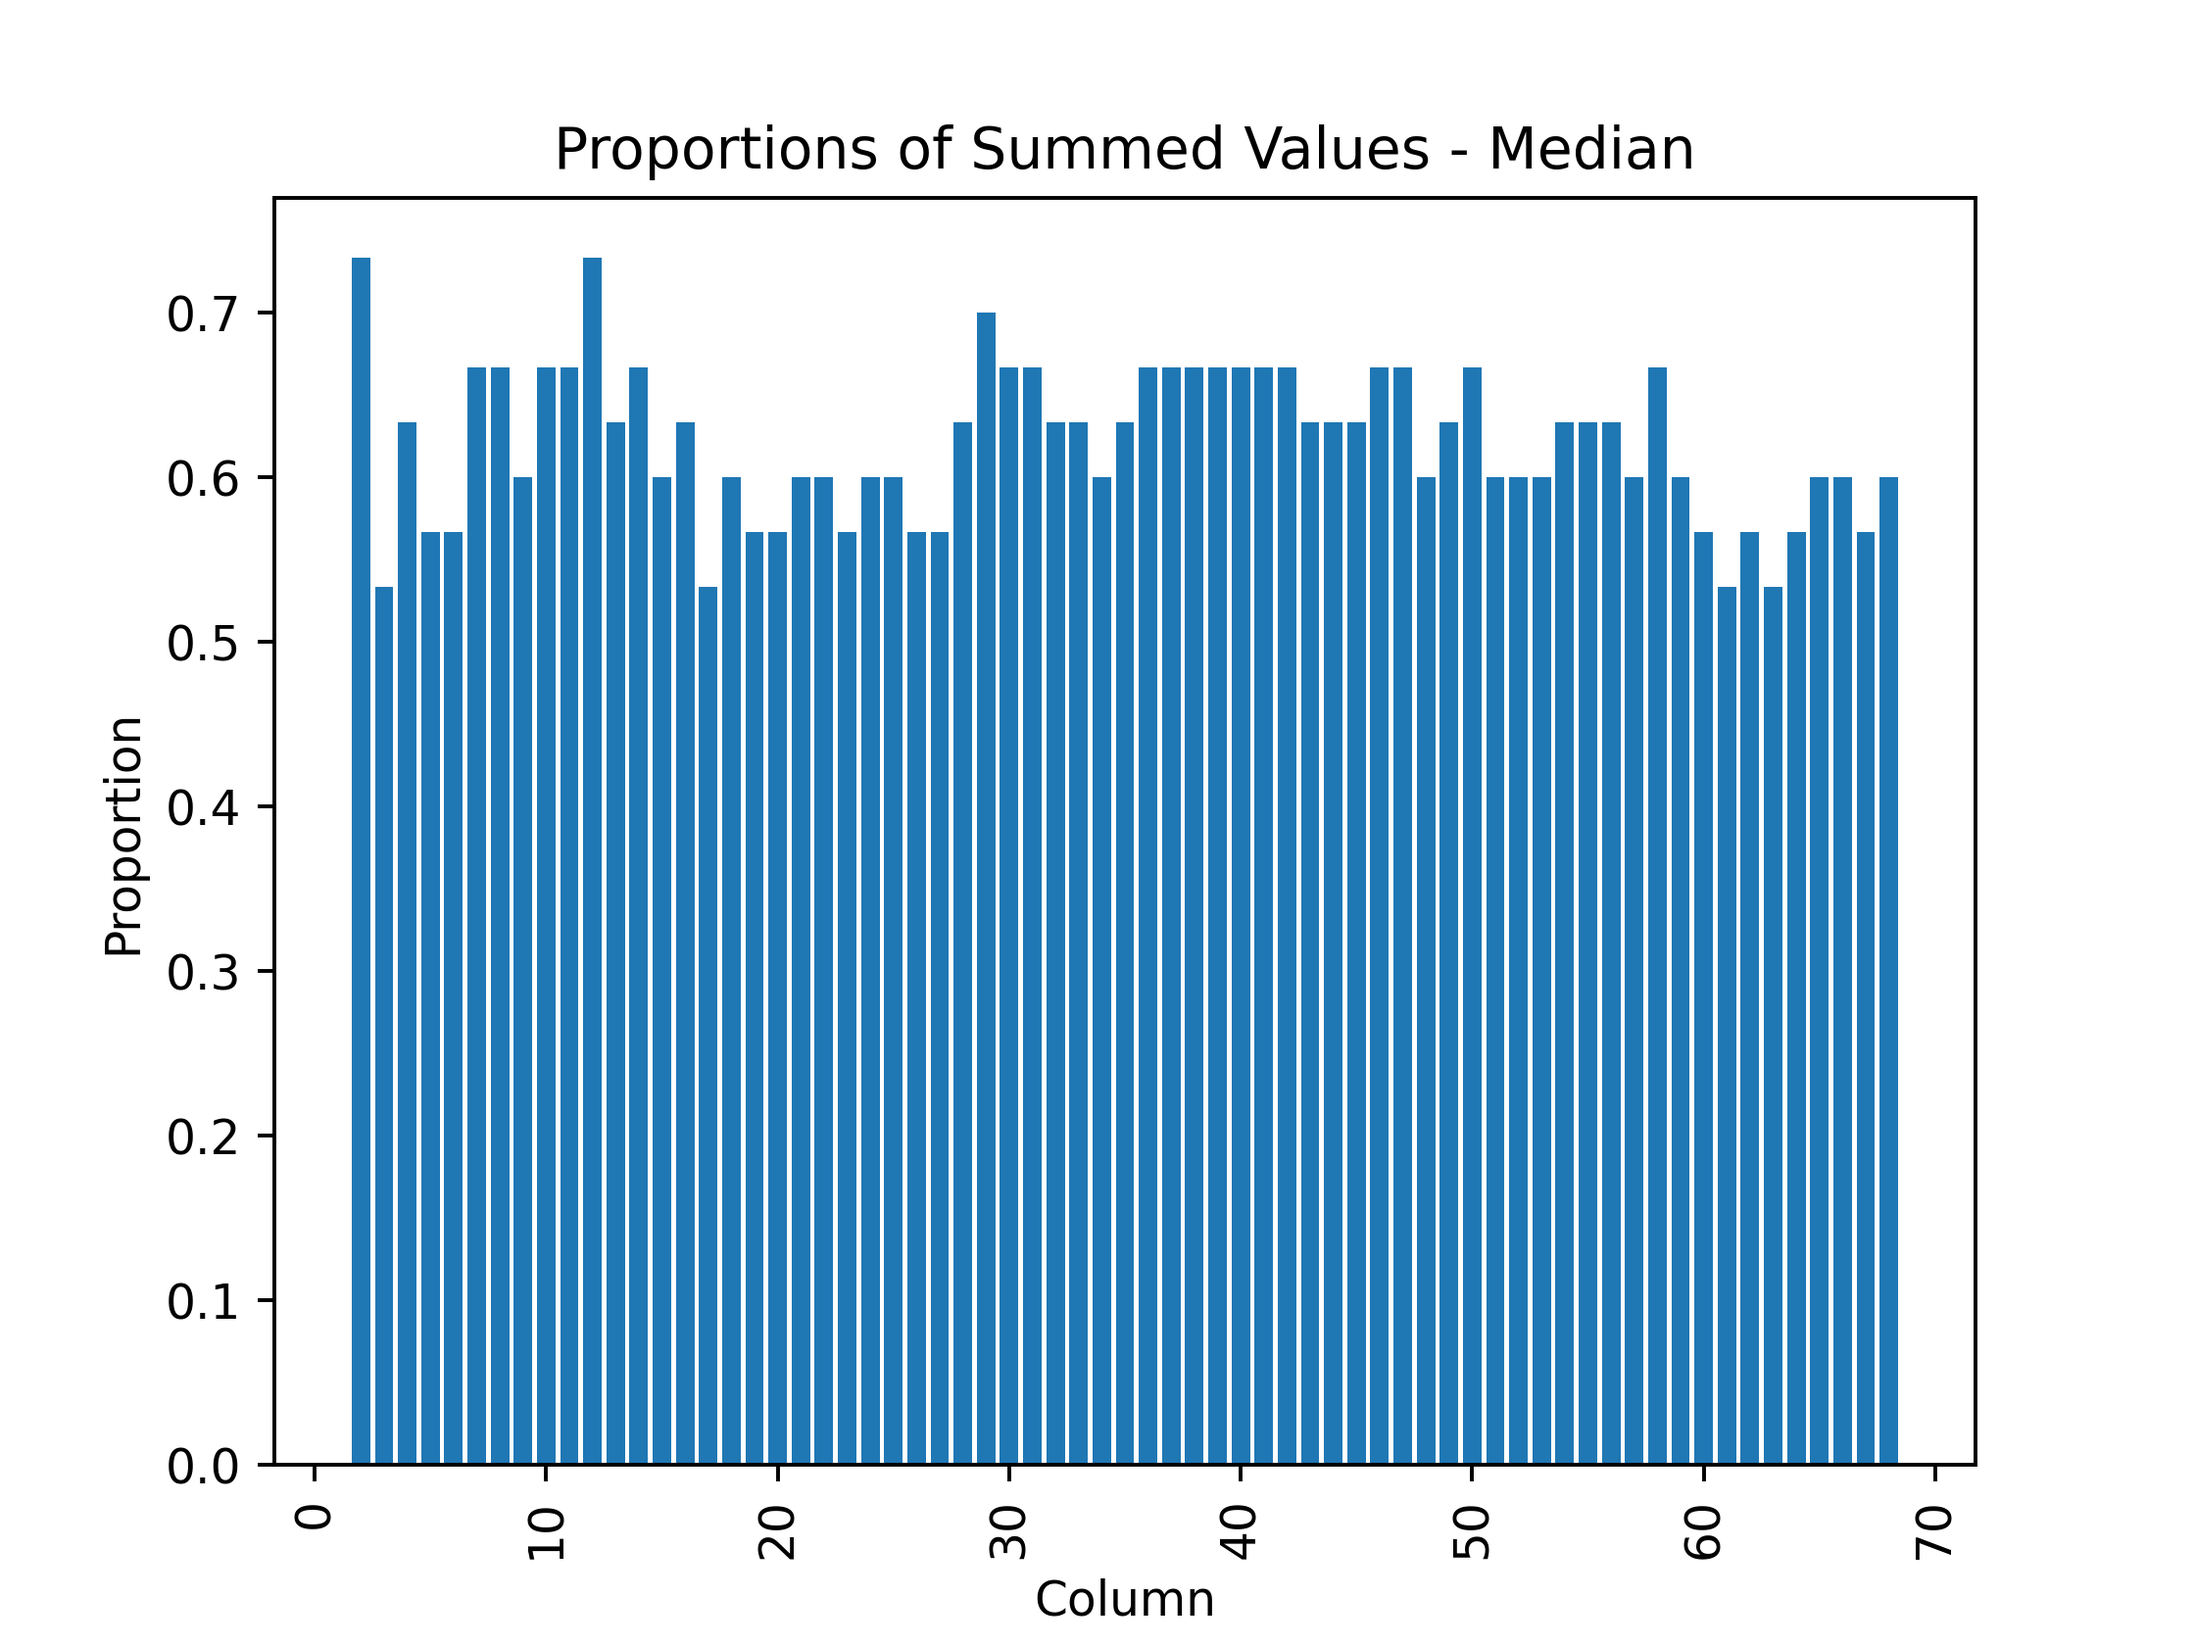
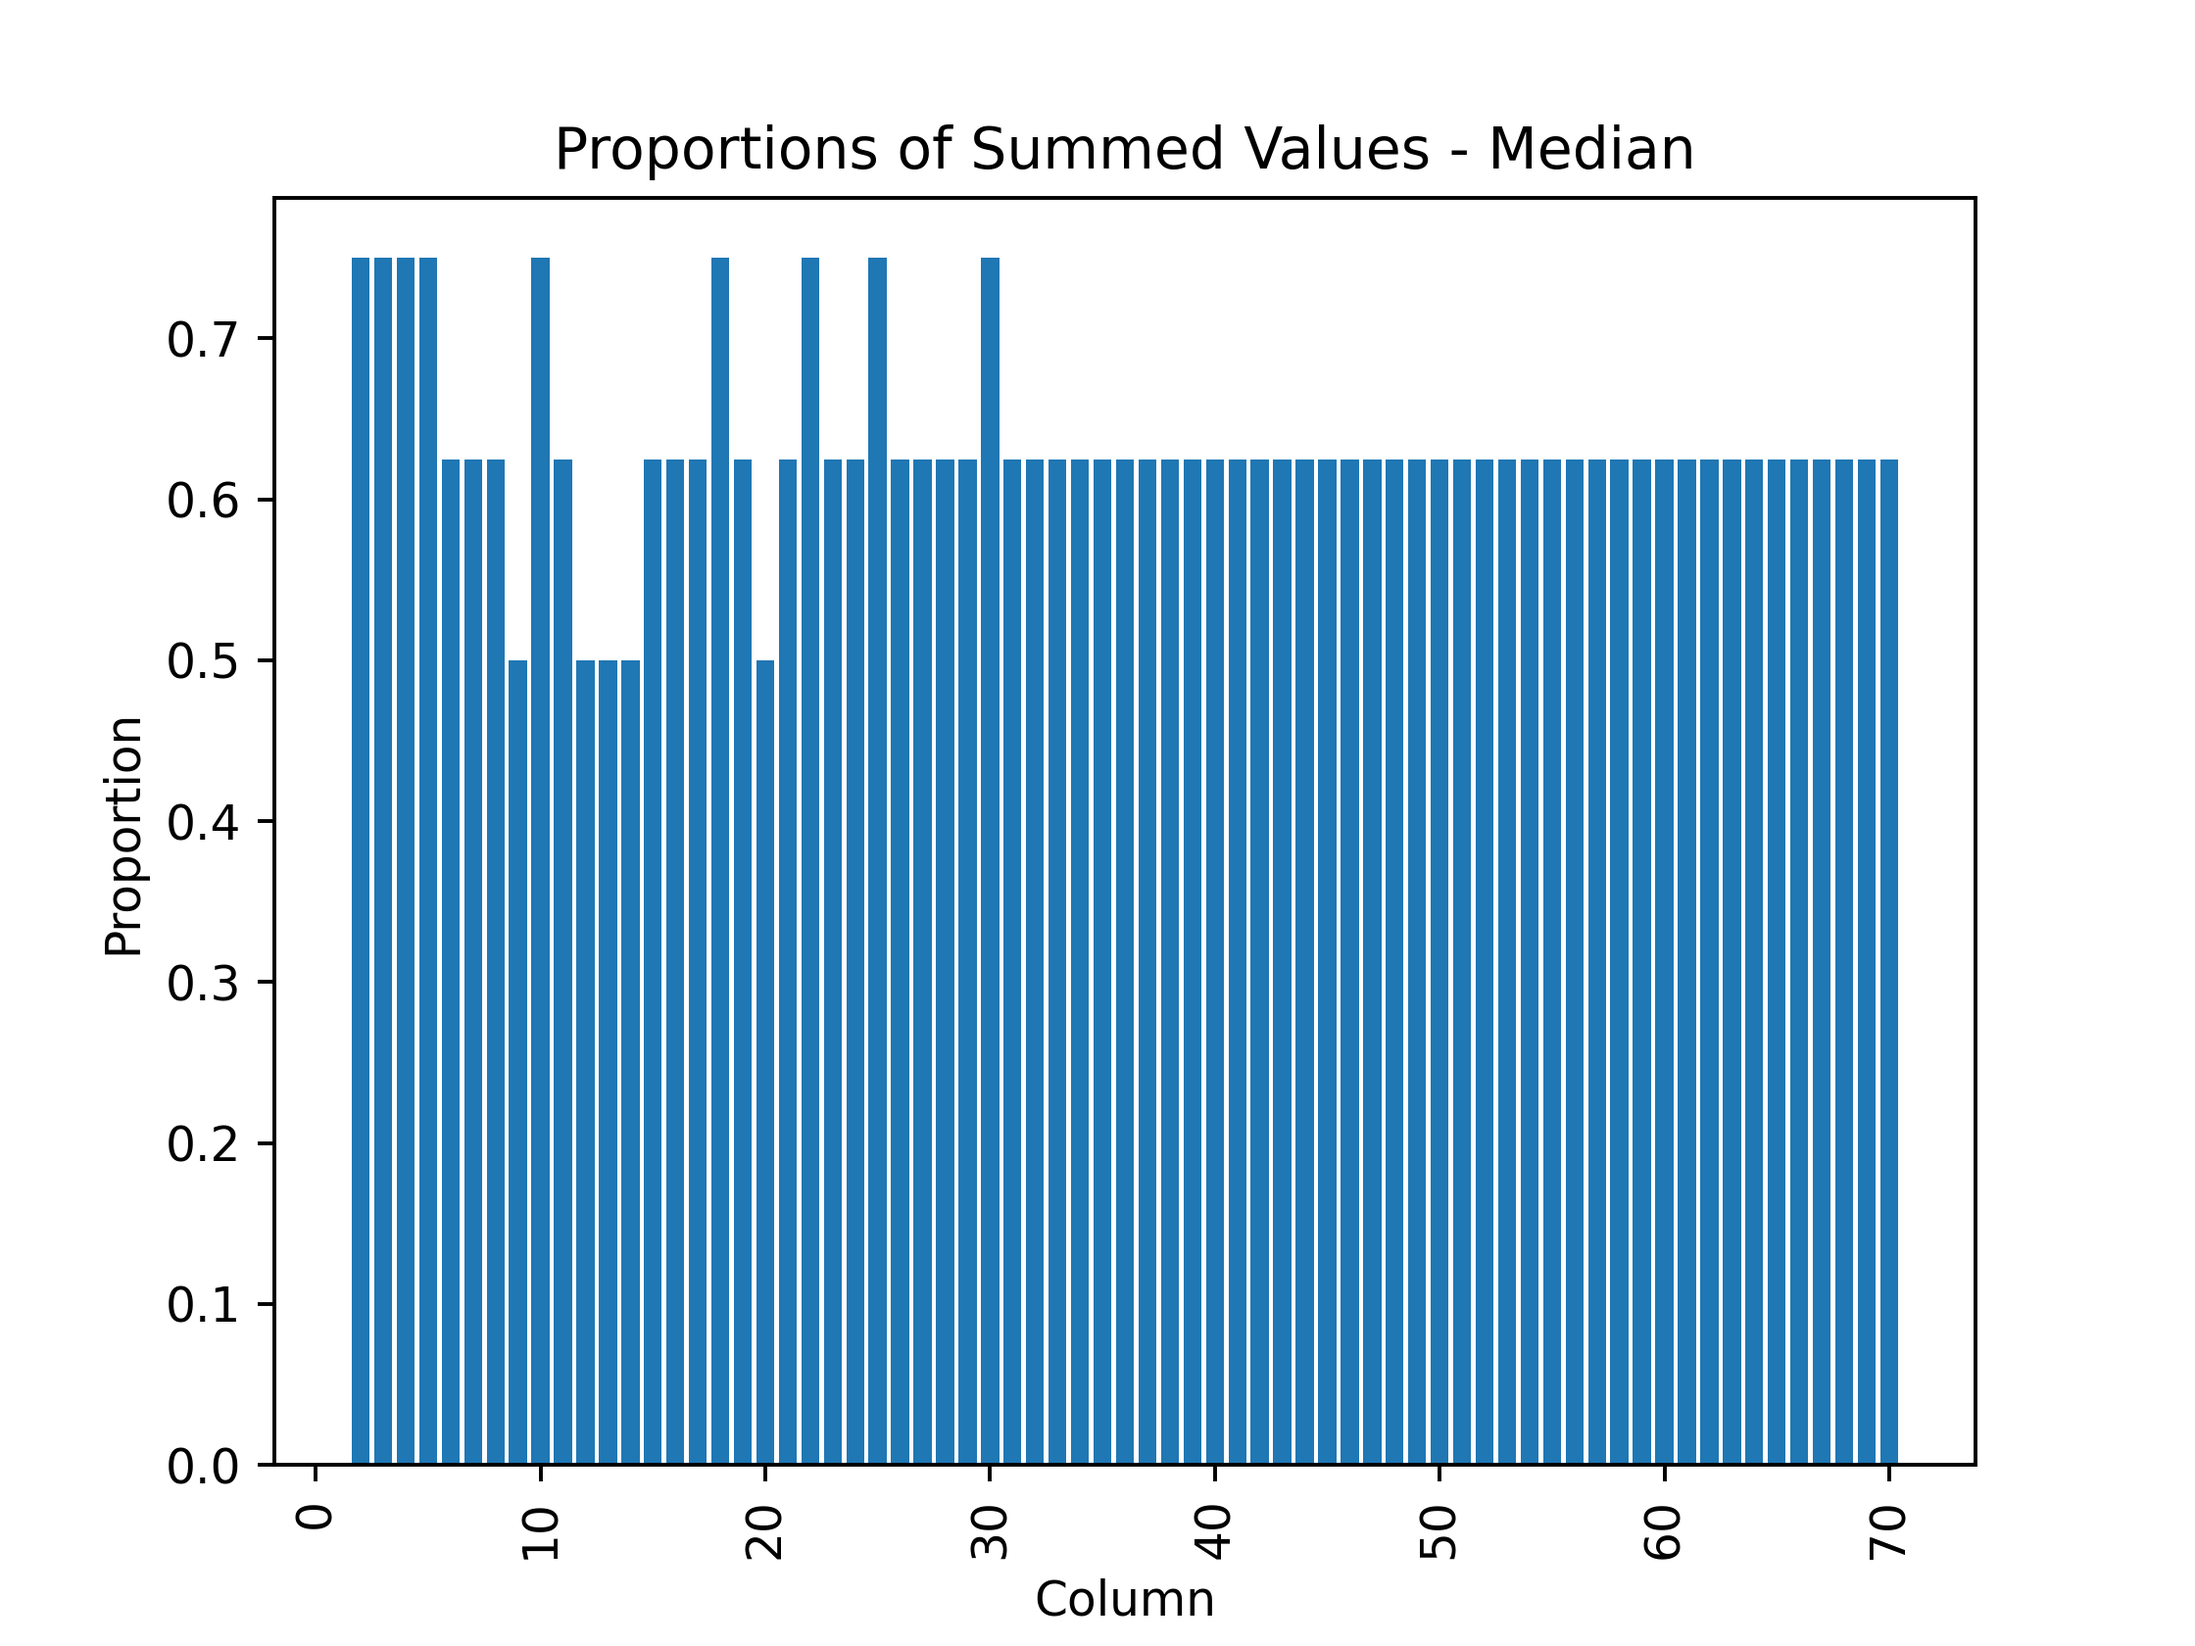
FIX: test function to only include todays current games

diff --git a/mlb_ml_classify_deep_learn_test.py b/mlb_ml_classify_deep_learn_test.py
@@ -248,16 +248,22 @@ class mlbDeep():
             X_pca_2 = self.pca.transform(X_std_2)
             team_1_df2023 = DataFrame(X_pca_1, columns=[f'PC{i}' for i in range(1, self.pca.n_components_+1)])
             team_2_df2023 = DataFrame(X_pca_2, columns=[f'PC{i}' for i in range(1, self.pca.n_components_+1)])
-            ma_range = [54,67]
+            ma_range = [18,53]
             # print(team_1_df2023)
             #avoid dropping column issue
             data1_mean = DataFrame()
             data2_mean = DataFrame()
             team_1_pred = []
             team_2_pred = []
+            median_bool = True
             for ma in tqdm(ma_range):
-                data1_mean = team_1_df2023.ewm(span=ma,min_periods=ma-1).mean()
-                data2_mean = team_2_df2023.ewm(span=ma,min_periods=ma-1).mean()
+                if median_bool == True:
+                    data1_mean = team_1_df2023.rolling(ma).median()
+                    data2_mean = team_2_df2023.rolling(ma).median()
+                else:
+                    data1_mean = team_1_df2023.ewm(span=ma,min_periods=ma-1).mean()
+                    data2_mean = team_2_df2023.ewm(span=ma,min_periods=ma-1).mean()
+
                 # for cols in team_1_df2023.columns:
                     # # ['cli', 'inherited_runners', 'inherited_score']
                     # if "cli" not in cols or "inherited_runners" not in cols or "inherited_score" not in cols:
@@ -303,7 +309,10 @@ class mlbDeep():
         model = keras.models.load_model('deep_learning_mlb_class_test.h5')
         final_df_mean = DataFrame()
         final_df_median= DataFrame()
-        for abv in tqdm(sorted(self.teams_abv)):
+        #load current day teams
+        team_names = read_csv('teams_curr_day.csv')
+        collapsed_list = team_names['Team_1'].tolist() + team_names['Team_1'].tolist()
+        for abv in tqdm(sorted(collapsed_list)):
             # try:
             print() #tqdm things
             print(f'current team: {abv}, year: {2023}')
@@ -352,7 +361,7 @@ class mlbDeep():
             final_df_median = concat([final_df_median, DataFrame(dict_range_median)])
             # print(final_df_mean)
             # print(final_df_mean.dropna(axis=1))
-            sleep(2)
+            sleep(3)
         
                 
         final_df_mean = final_df_mean.dropna(axis=1)
@@ -366,9 +375,17 @@ class mlbDeep():
         # Print the sorted columns
         print(f'mean sorted values: {sorted_columns}')
 
+        #print each mean and median percentage correct
+        print(f'mean percent correct: {(sorted_columns.iloc[0] / len(collapsed_list))*100}')
+
         sorted_columns = column_sums_median.sort_values(ascending=False)
         # Print the sorted columns
         print(f'median sorted values: {sorted_columns}')
+        print('=========')
+        print(sorted_columns.iloc[0])
+
+        #print each mean and median percentage correct
+        print(f'median percent correct: {(sorted_columns.iloc[0] / len(collapsed_list))*100}')
     
         #plot the summed values of correct 
         plt.figure()
